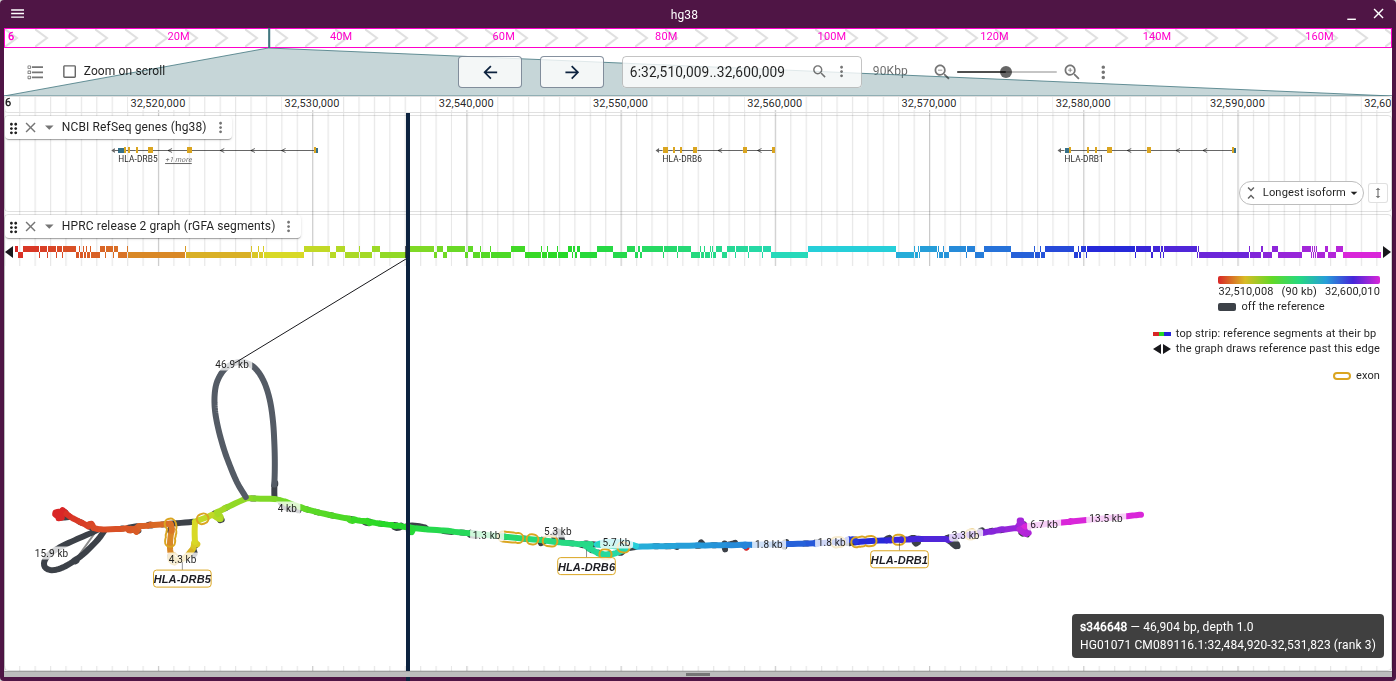
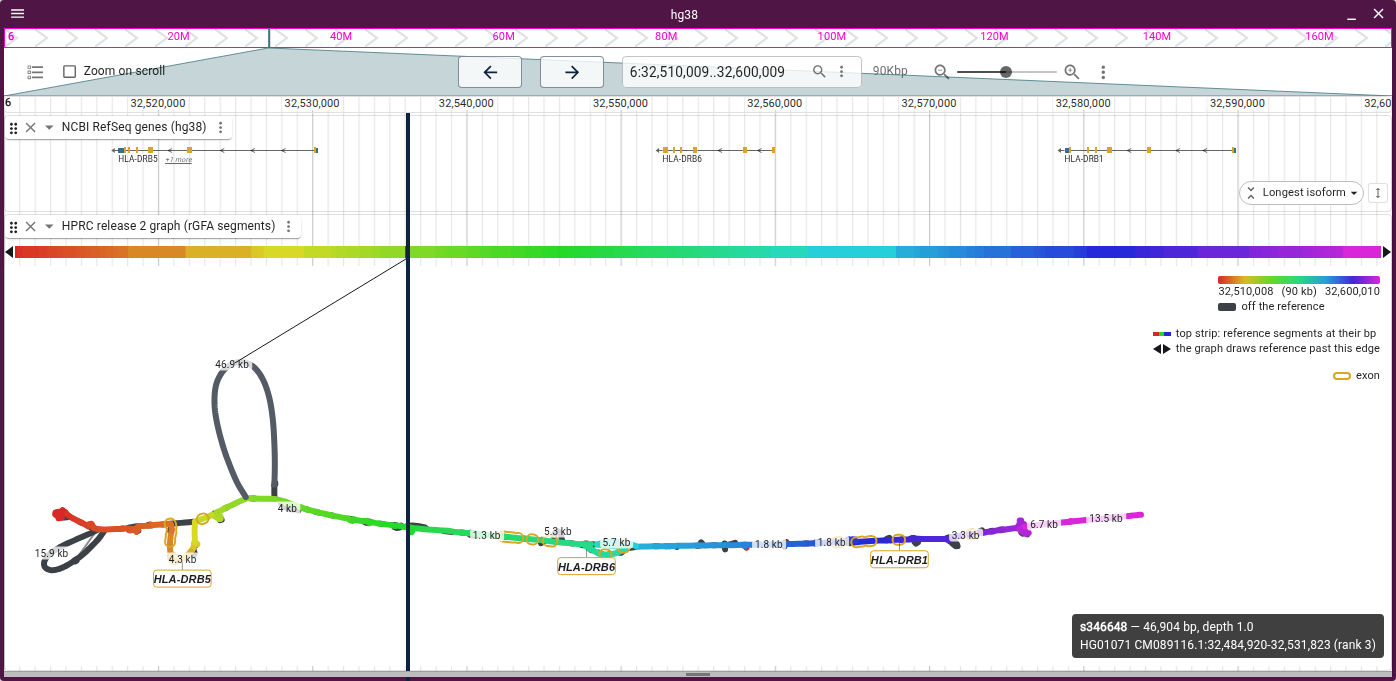
The strip staggers only segments wide enough to read one by one
A base-level cut splits the backbone at every SNP, so at GSTM1 the two
tiers alternated every few px, a barcode that read as data no legend
explained. The strip now tiers its blocks only while those on screen
average 12 px or more, and draws a denser cut as one band: KIV-2's rGFA
segments keep their tiers, GSTM1's GBZ backbone and MHC's dense rGFA do
not. Figures with a strip reshot.

diff --git a/packages/core/src/referenceStrip.ts b/packages/core/src/referenceStrip.ts
@@ -17,10 +17,12 @@ import type { Graph, NodeSegment } from './types'
 // along the top of the track draws each reference segment at its bp there, in
 // the colour its node has in the graph below: the reference-position ramp's
 // hue, or while walks are lifted a row per walk in its lane's colours, pale
-// where that walk skips the segment. Touching segments alternate between two
-// tiers, as a feature track stacks features that would touch, and the strip
-// leaves the linear view's gridlines showing between them, so each block reads
-// as a feature at its bp. The lit node gets a leader from its span on the strip
+// where that walk skips the segment. The strip leaves the linear view's
+// gridlines showing, so each block reads as a feature at its bp, and while the
+// blocks on screen are wide enough to read one by one, touching ones alternate
+// between two tiers, as a feature track stacks features that would touch. A
+// base-level cut splits the backbone at every SNP, and tiers there would be a
+// barcode that reads as data, so it draws as one band. The lit node gets a leader from its span on the strip
 // to where the graph drew it, as the variant matrix ties a column to its
 // variant.
 
@@ -31,6 +33,8 @@ export const REFERENCE_STRIP_ZONE_PX = REFERENCE_STRIP_PX + 8
 // graph draws runs past that edge
 const OVERHANG_PX = 8
 const OVERHANG_CAP_PX = OVERHANG_PX + 3
+// the average width, in css px, the blocks on screen need to be staggered
+const MIN_STAGGER_PX = 12
 
 export interface StripBlock {
   node: string
@@ -158,12 +162,20 @@ export interface StripLit {
 // them and two faded ones a dark seam where they overlap, stripes that read
 // as data. A block narrower than a pixel gets its pixel unless a block to its
 // left already has it.
+export interface StripPixel {
+  colors: string[]
+  x0: number
+  x1: number
+  // the tier a staggered strip draws the block in
+  tier?: number
+}
+
 export function stripPixels(
   blocks: readonly StripBlock[],
   frame: BpFrame,
   width: number,
   dpr: number,
-) {
+): StripPixel[] {
   const placed = blocks
     .map(b => {
       const [x0, x1] = span(frame, b.bp0, b.bp1)
@@ -177,7 +189,7 @@ export function stripPixels(
     })
     .filter(b => b.px1 > 0 && b.px0 < width * dpr)
     .sort((a, b) => a.x0 - b.x0)
-  const out: { colors: string[]; x0: number; x1: number; tier: number }[] = []
+  const out: StripPixel[] = []
   let claimed = -Infinity
   // where each tier's last block ends, in device px
   const tierEnds = [-Infinity, -Infinity]
@@ -190,7 +202,10 @@ export function stripPixels(
       claimed = px1
     }
   }
-  return out
+  const covered = out.length > 0 ? out.at(-1)!.x1 - out[0]!.x0 : 0
+  return covered >= out.length * MIN_STAGGER_PX
+    ? out
+    : out.map(({ tier: _, ...b }) => b)
 }
 
 // A triangle the strip's height with its tip at the strip's edge, pointing
@@ -240,10 +255,12 @@ export function drawReferenceStrip(
   const ink = darkMode ? '#ffffff' : '#18181c'
   ctx.clearRect(0, 0, width, REFERENCE_STRIP_ZONE_PX)
   for (const b of stripPixels(blocks, frame, width, dpr)) {
-    // a row per lifted walk, else the block's tier
-    const rows = b.colors.length > 1 ? b.colors.length : 2
+    // a row per lifted walk, else the block's tier, else the whole strip
+    const { tier } = b
+    const staggered = tier !== undefined && b.colors.length === 1
+    const rows = staggered ? 2 : b.colors.length
     b.colors.forEach((color, i) => {
-      const row = b.colors.length > 1 ? i : b.tier
+      const row = staggered ? tier : i
       const y0 = rowEdge(row, rows, dpr)
       ctx.fillStyle = color
       ctx.fillRect(b.x0, y0, b.x1 - b.x0, rowEdge(row + 1, rows, dpr) - y0)

diff --git a/packages/core/src/referenceStrip.test.ts b/packages/core/src/referenceStrip.test.ts
@@ -82,22 +82,34 @@ test('blocks fill whole pixels, none shared, so neighbours leave no seam', () =>
   ]
   const px = stripPixels(blocks, { scale: 1, translateX: 0 }, 100, 1)
   // s takes its pixel from b, and t, sharing it, is not drawn
-  // and touching blocks alternate tiers, so each reads as its own
+  // and, 7 px apiece on average, they draw as one band rather than in tiers
   expect(px).toEqual([
-    { colors: ['a'], x0: 0, x1: 10, tier: 0 },
-    { colors: ['s'], x0: 10, x1: 11, tier: 1 },
-    { colors: ['b'], x0: 11, x1: 20, tier: 0 },
+    { colors: ['a'], x0: 0, x1: 10 },
+    { colors: ['s'], x0: 10, x1: 11 },
+    { colors: ['b'], x0: 11, x1: 20 },
   ])
   // at dpr 2, edges land on half css px
   expect(
     stripPixels(blocks.slice(0, 1), { scale: 1, translateX: 0 }, 100, 2),
-  ).toEqual([{ colors: ['a'], x0: 0, x1: 10.5, tier: 0 }])
+  ).toEqual([{ colors: ['a'], x0: 0, x1: 10.5 }])
   // reversed, b is leftmost
   expect(
     stripPixels(blocks, { scale: -1, translateX: 20 }, 100, 1).map(
       p => p.colors[0],
     ),
   ).toEqual(['b', 't', 'a'])
+})
+
+test('blocks wide enough to read one by one alternate tiers where they touch', () => {
+  const blocks = [
+    { node: 'a', bp0: 0, bp1: 20, colors: ['a'], faded: false },
+    { node: 'b', bp0: 20, bp1: 40, colors: ['b'], faded: false },
+    { node: 'c', bp0: 40, bp1: 60, colors: ['c'], faded: false },
+    { node: 'd', bp0: 70, bp1: 90, colors: ['d'], faded: false },
+  ]
+  expect(
+    stripPixels(blocks, { scale: 1, translateX: 0 }, 100, 1).map(p => p.tier),
+  ).toEqual([0, 1, 0, 0])
 })
 
 test('a block is hit where the linear view places its bp', () => {

diff --git a/docs/layouts.md b/docs/layouts.md
@@ -29,16 +29,18 @@ need W or P lines, and Tube map on reference needs both.
 In a track of a linear view, a force-directed or ordered drawing has no bp axis
 of its own. A strip along the top of the track draws each reference segment at
 its bp, in the colour its node has in the graph, so under the reference-position
-ramp a hue on the strip finds its node below. Touching segments alternate
-between two tiers, as a feature track stacks features, over the linear view's
-gridlines, so each reads as a feature at its bp. Hovering either one boxes the
-node's reference span on the strip and draws a leader to the node; an allele's
-span runs between its flanks. Hovering a bubble's name does the same for the
-bubble's span. While the Walks picker lifts haplotypes, the strip gives each
-lifted walk a row in its lane's colours, pale where that walk skips a reference
-segment, so a deletion is a pale gap in one haplotype's row. A triangle at
-either end of the strip says the graph draws reference past that edge of the
-window. The track menu's **Reference strip at bp** turns the strip off.
+ramp a hue on the strip finds its node below. The linear view's gridlines show
+through it, so each segment reads as a feature at its bp, and while the segments
+on screen average 12 px or more, touching ones alternate between two tiers, as a
+feature track stacks features. A base-level cut, whose backbone splits at every
+SNP, draws as one band. Hovering either one boxes the node's reference span on
+the strip and draws a leader to the node; an allele's span runs between its
+flanks. Hovering a bubble's name does the same for the bubble's span. While the
+Walks picker lifts haplotypes, the strip gives each lifted walk a row in its
+lane's colours, pale where that walk skips a reference segment, so a deletion is
+a pale gap in one haplotype's row. A triangle at either end of the strip says
+the graph draws reference past that edge of the window. The track menu's
+**Reference strip at bp** turns the strip off.
 
 Where does KIV-2's longest allele go on GRCh38? Hovering HG02391's 68 kb segment
 boxes its span between its flanks on the strip, and the linear view bands the
